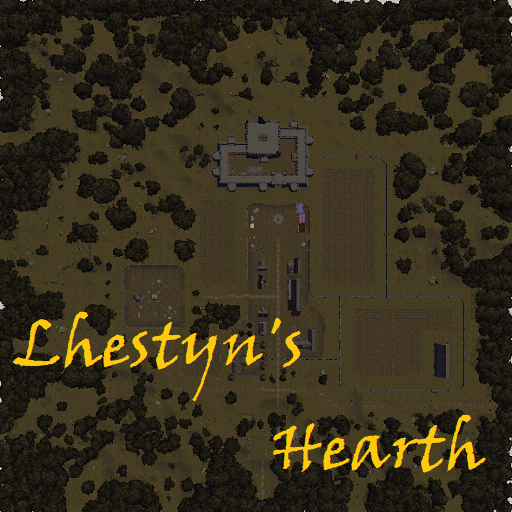
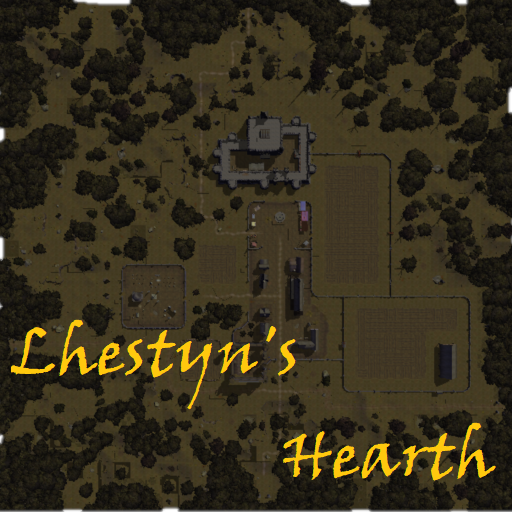
v210613
- Module & Link updated
- TDLI haks & links updated
- Home updated
- Maps updated

diff --git a/common.js b/common.js
@@ -16,11 +16,11 @@ var map = {
         //1              2                3              4              5              6                  7                 8                  9                  10                 11                 12                 13                 14                 15                 16                 17                 18                 19                 20                21                22                     23                 24                 25                 26              27          28           29            
         '0map',          '0map',          '0map',        '0map',        '0map',        '0map',            '0map',           '0map',            '0map',            '0map',            '0map',            '0map',            '0map',            '0map',            '0map',            '0map',            '0map',            '0map',            '0map',            '0map',           '0map',           '0map',                '0map',            '0map',            '0map',            '0map',         '0map',     '0map',      '0map',
         '0map',          '0map',          '0map',        '0map',        '0map',        '0map',            '0map',           '0map',            '0map',            '0map',            '0map',            '0map',            '0map',            '0map',            '0map',            '0map',            '0map',            '0map',            '0map',            '0map',           '0map',           '0map',                't_varyth_torf_w', 't_varyth_tor',    't_varyth_torf_e', '0map',         '0map',     '0map',      '0map',
-        't_zazesspur_nw','t_zazesspur_ne','0map',        '0map',        '0map',        '0map',            '0map',           '0map',            '0map',            '0map',            '0map',            '0map',            '0map',            '0map',            '0map',            '0map',            '0map',            '0map',            '0map',            '0map',           't_masamount',    't_masamount_wudn',    't_varyth_torf_sw','t_varyth_torf_s', 't_varyth_torf_se','0map',         '0map',     '0map',      '0map',
+        't_zazesspur_nw','t_zazesspur_ne','0map',        '0map',        '0map',        '0map',            '0map',           '0map',            '0map',            '0map',            '0map',            '0map',            '0map',            '0map',            '0map',            '0map',            '0map',            '0map',            't_lhestyn_quay',  't_masamont_road','t_masamount',    't_masamount_wudn',    't_varyth_torf_sw','t_varyth_torf_s', 't_varyth_torf_se','0map',         '0map',     '0map',      '0map',
         't_zazesspur_sw','t_zazesspur_se','t_venazir_ne','SulZaz2',     '0map',        '0map',            't_tethyrcast_nw','t_tethyrcast_n',  't_tethyrcast_ne', 'SuldusBard1',     '0map',            'IthmonSulW',      't_hostim_quay',   'IthmonSulE',      'IthmonSulE1',     'IthmonSulE2',     't_grannox',       't_grannox_farms', 't_lhestynheart',  't_freelm_farms', 't_freelmanse',   't_masamount_wuds',    't_varyth_plain_w','t_varyth_plain_c','t_varyth_plain_e','0map',         '0map',     '0map',      '0map',
         't_venazir_sw',  't_venazir_s',   't_venazir_se','SulZaz3',     'SulZaz4',     'SulZaz5',         't_tethyrcast_w', 't_tethyrcast',    't_tethyrcast_e',  'SuldusBard2',     'SuldusBard3',     'SuldusBard4',     't_hostim',        '0map',            '0map',            '0map',            't_lhest_gorge',   't_lhest_farm_sw', 't_lhest_farm_s',  't_lhest_farm_se','t_rivshrehill_n','t_rivshrehill_ne',    't_varyth_hill_nw','t_varyth_hill_n', 't_varyth_hill_ne','t_iltarghal',  '0map',     't_survale', '0map',
         '0map',          '0map',          'OldKingRoad1','OldKingRoad2','OldKingRoad3','OldKingRoad4',    't_tethyrcast_sw','t_tethyrcast_s',  't_tethyrcast_se', '0map',            '0map',            '0map',            't_hostim_road',   '0map',            '0map',            '0map',            't_qonsir',        't_qonsir_farm',   't_lhest_road',    't_rivshrehill_w','t_rivshrehill_c','t_st_ostus',          't_varyth_hill_sw','t_varyth_hill_s', 't_varyth_hill_se','0map',         '0map',     '0map',      '0map',
-        '0map',          '0map',          '0map',        '0map',        '0map',        't_sahark_crossrd','t_saharkhan',    't_bardshy_itr_1', 't_bardshyr_lorik','t_bardshy_itr_3', 't_bardshy_itr_4', 't_ithmon_ithr_w1','t_ithmon_ithr_w2','t_ithmon_lorcros','t_ithmon_ithr_e1','t_ithmon_ithr_e2','t_rvrshr_ithrdw', 't_crownfarms_nw', 't_crownfarms_n',  't_crownfarms_ne','t_rivshrehill_s','t_rivshrehill_se',    '0map',            '0map',            '0map',            '0map',         '0map',     '0map',      '0map',
+        '0map',          '0map',          '0map',        '0map',        '0map',        't_sahark_crossrd','t_saharkhan',    't_bardshy_itr_1', 't_bardshy_itr_2', 't_bardshy_itr_3', 't_bardshy_itr_4', 't_ithmon_ithr_w1','t_ithmon_ithr_w2','t_ithmon_lorcros','t_ithmon_ithr_e1','t_ithmon_ithr_e2','t_rvrshr_ithrdw', 't_crownfarms_nw', 't_crownfarms_n',  't_crownfarms_ne','t_rivshrehill_s','t_rivshrehill_se',    '0map',            '0map',            '0map',            '0map',         '0map',     '0map',      '0map',
         '0map',          '0map',          '0map',        '0map',        '0map',        'SoldiersRoad1',   '0map',           '0map',            '0map',            '0map',            '0map',            '0map',            't_ithmon_farm_nw','t_ithmon_farm_n', 't_ithmon_farm_ne','t_loransewood_n', 't_crownfarms_iw2','t_crownfarms_iw1','t_darromar',      '0map',           '0map',           '0map',                '0map',            '0map',            '0map',            '0map',         '0map',     '0map',      '0map',
         '0map',          '0map',          '0map',        '0map',        '0map',        'SoldiersRoad2',   '0map',           '0map',            '0map',            '0map',            '0map',            '0map',            't_ithmon_farm_w', 't_ithmon_loranse','t_ithmon_farm_e', 't_loransewood_s', 't_ruba',          't_clov_fld_nw',   't_clov_fld_itr_n','0map',           '0map',           '0map',                '0map',            '0map',            '0map',            '0map',         '0map',     '0map',      '0map',
         '0map',          '0map',          '0map',        '0map',        '0map',        'SoldiersRoad3',   '0map',           '0map',            '0map',            '0map',            '0map',            '0map',            '0map',            '0map',            '0map',            '0map',            '0map',            '0map',            't_clov_fld_itr_s','0map',           '0map',           '0map',                '0map',            '0map',            '0map',            '0map',         '0map',     '0map',      '0map',

diff --git a/downloads/index.html b/downloads/index.html
@@ -43,15 +43,14 @@
 </br></br></br></br></br></br></br></br></br>
     <li>Lands of Intrigue module</li>
     <a href="https://drive.google.com/file/d/1pWzaYbTEQFszujiePY9UHX4Dd7xYFJwL/view?usp=sharing">Download</a>
+</br>
     <li>Lands of Intrigue compilation & required hakpacks</li>
-    <a href="https://drive.google.com/file/d/1M9dqiz7l591xdVJ5s8YcG0TwhZzNqSib/view?usp=sharing">Download Haks 1</a>
-    <a href="https://drive.google.com/file/d/1KueMIxkrMEOq4Tw7oMEeaZ3oRJ3ztHgM/view?usp=sharing">Download Haks 2</a>
-    <!--
-    <li>Developer override files</li>
-    <a href="tdli_override.zip">Download</a>    
-    -->
+    <a href="https://drive.google.com/file/d/15xyZxdsh8geCJbQvFxOk4_j1YdUuzXfs/view?usp=sharing">Download Haks </a>
+</br>    
+</br>    
+</br>    
+    <p>Other required hakpacks</p>
     <nav>
-    </br>
     </br>
     <li><u>ProjectQ</u> </li>
     <a href="https://neverwintervault.org/project/nwnee/hakpak/combined/project-q-enhanced-edition">

diff --git a/index.html b/index.html
@@ -28,6 +28,10 @@
     </p>
 -->
     <nav>
+    </br></br></br></br></br></br></br></br></br>
+    <p>Lands of Intrigue is an Open World experience for Neverwinter Nights: EE, 
+        based upon Steven E. Schend Forgotten Realms' Lands of Intrigue setting.
+    </p>
         <!--
         <h1>Square tiles</h1>
         
